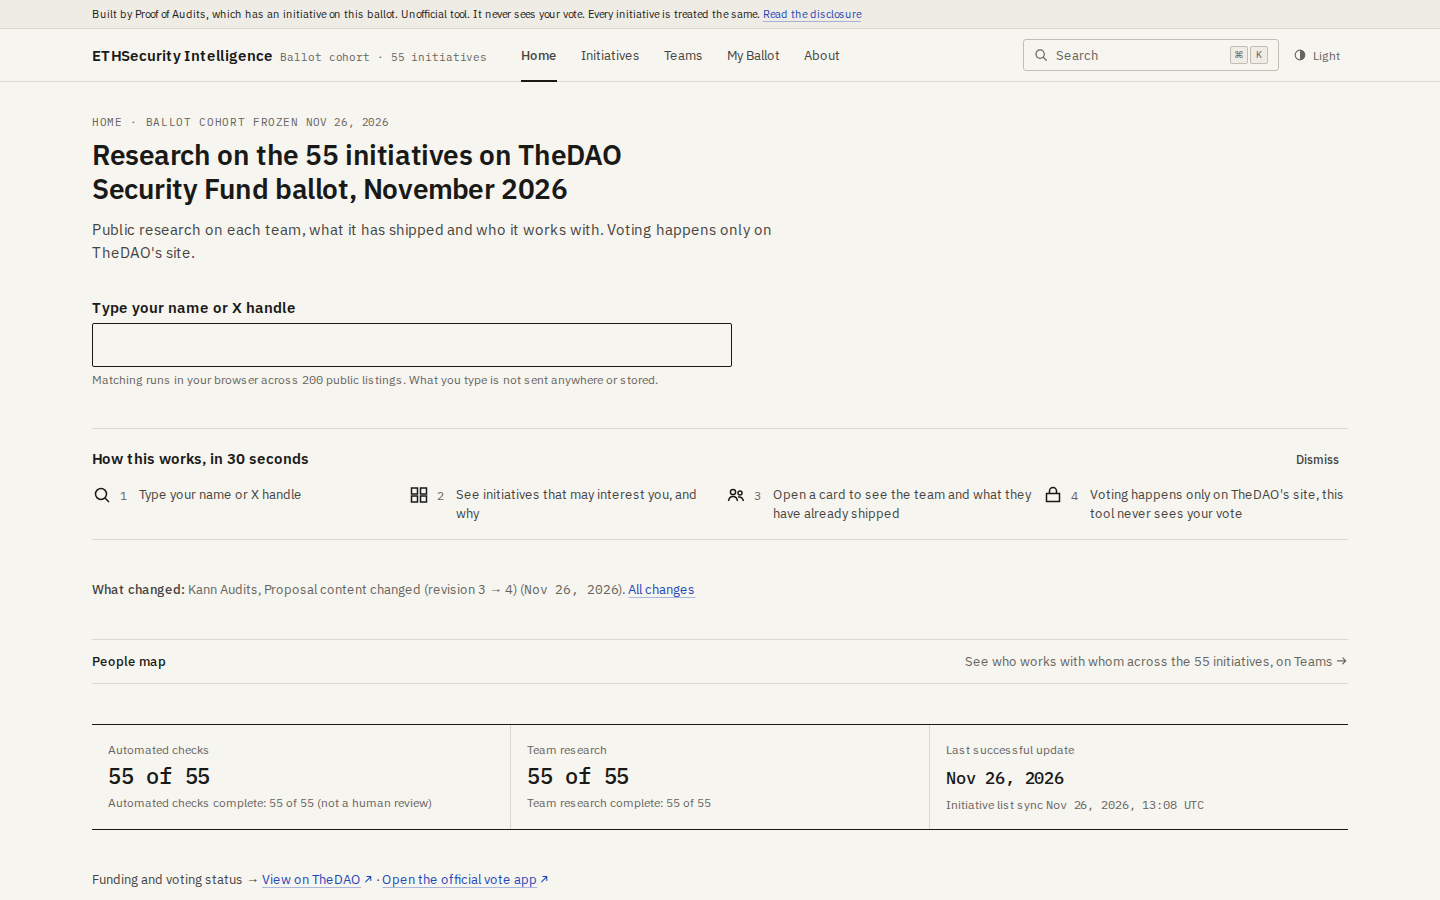
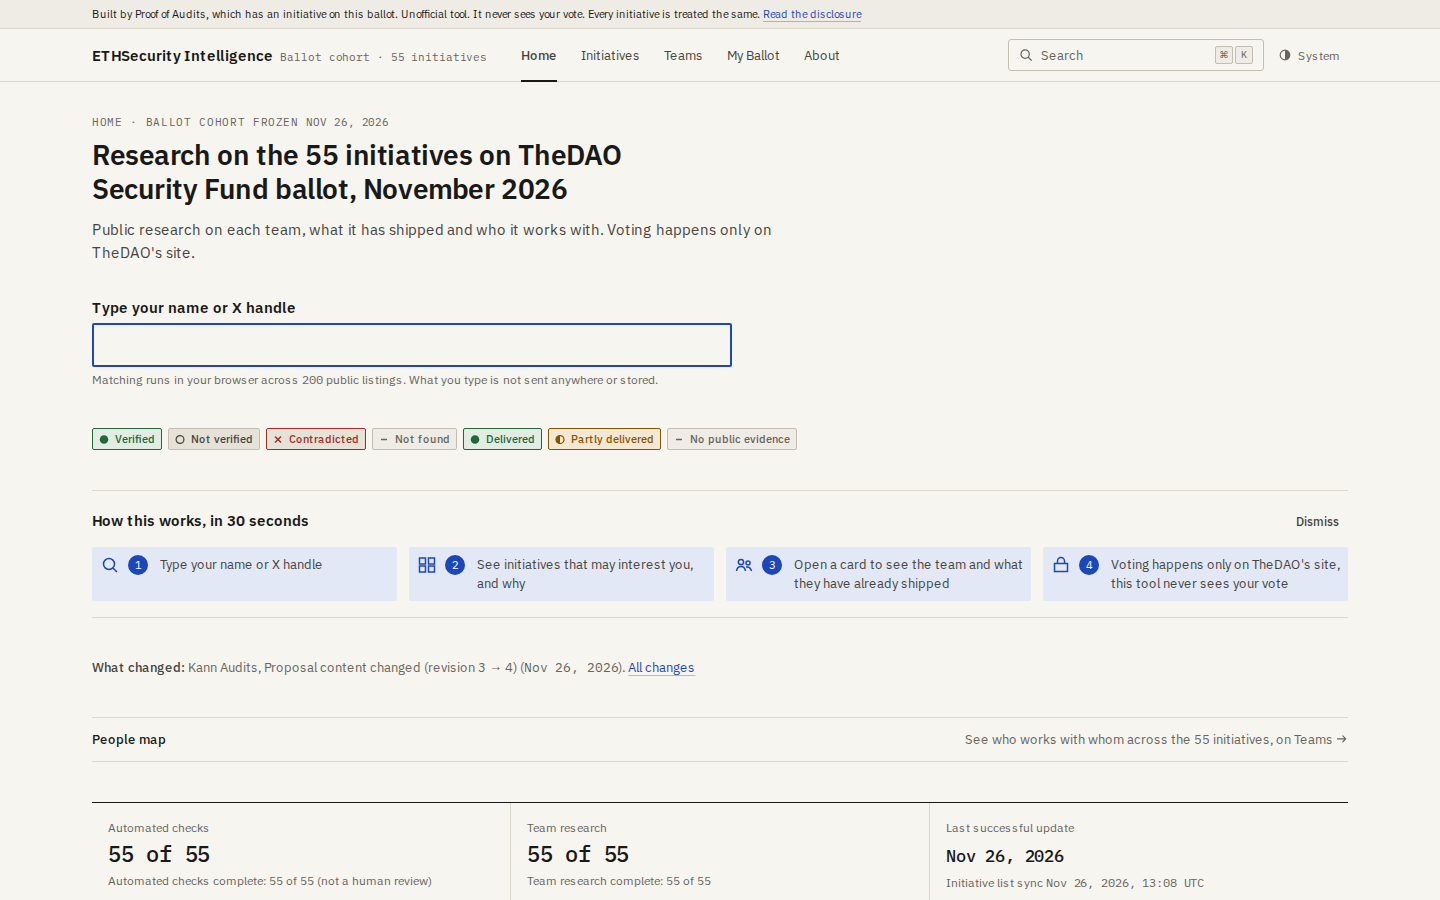
Show the current Proof of Audits function counts and make status colours readable
The explorer claim now uses the page's own census: 25,695 callable functions, 14,577 in a cited audit scope, 11,118 not matched, and 0 not checked. A found badge holder with no initiative link is no longer described as an unknown name.

diff --git a/components/home/name-search.tsx b/components/home/name-search.tsx
@@ -46,7 +46,7 @@ export function NameSearch({ holders, index, total }: { holders: BadgeHolder[] |
           maxLength={80}
           aria-describedby={`${id}-help`}
           data-name-search-input
-          className="h-11 w-full min-w-0 rounded-xs border border-ink bg-paper px-3 text-md text-ink focus:outline-none disabled:cursor-not-allowed disabled:border-rule-2 disabled:text-ink-3"
+          className="h-11 w-full min-w-0 rounded-xs border-2 border-accent bg-paper px-3 text-md text-ink focus:outline-none disabled:cursor-not-allowed disabled:border-rule-2 disabled:text-ink-3"
         />
         <p id={`${id}-help`} className="mt-1 text-xs text-ink-3">
           {holders ? (
@@ -95,15 +95,17 @@ export function NameSearch({ holders, index, total }: { holders: BadgeHolder[] |
 
         {holders && typed && chosen && (
           <div data-name-search-state="results" className="space-y-6">
-            <p className="text-sm text-ink-2">
-              Showing public connections for <span className="font-medium text-ink">{chosen.name}</span>
-              {chosen.organisation && <>, {chosen.organisation}</>}
-              {chosen.xHandle && <> (@{chosen.xHandle})</>}. Every card names the public source for its reason.
-            </p>
-            {groups.length === 0 && <NoMatch total={total} />}
+            {groups.length > 0 && (
+              <p className="rounded-xs border border-accent bg-accent-wash px-3 py-2 text-sm text-ink">
+                Showing public connections for <span className="font-medium">{chosen.name}</span>
+                {chosen.organisation && <>, {chosen.organisation}</>}
+                {chosen.xHandle && <> (@{chosen.xHandle})</>}. Every card names the public source for its reason.
+              </p>
+            )}
+            {groups.length === 0 && <FoundWithoutLink name={chosen.name} total={total} />}
             {groups.map((g) => (
-              <section key={g.key} aria-labelledby={`${id}-g-${g.key}`} data-result-group={g.key}>
-                <h3 id={`${id}-g-${g.key}`} className="mb-2 text-sm font-semibold">
+              <section key={g.key} aria-labelledby={`${id}-g-${g.key}`} data-result-group={g.key} className="rounded-xs border border-rule border-l-4 border-l-accent bg-paper px-3 py-2">
+                <h3 id={`${id}-g-${g.key}`} className="mb-2 text-sm font-semibold text-accent">
                   {g.label} <span className="num font-normal text-ink-3">{g.cards.length}</span>
                 </h3>
                 <ul className="grid grid-cols-1 gap-3 md:grid-cols-2 xl:grid-cols-3 [&>*]:min-w-0">
@@ -122,9 +124,28 @@ export function NameSearch({ holders, index, total }: { holders: BadgeHolder[] |
   );
 }
 
+function FoundWithoutLink({ name, total }: { name: string; total: number }) {
+  return (
+    <div role="status" data-name-search-state="no-link" className="max-w-[680px] rounded-xs border border-accent bg-accent-wash px-3 py-2 text-sm text-ink">
+      <p>
+        <span className="font-medium">{name}</span> is on the public badge list. None of the {total} initiatives name them in a public team, repository or organisation record.
+      </p>
+      <p className="mt-1">
+        <Link href="/initiatives" className="link">
+          Browse all {total} initiatives
+        </Link>
+        {" · "}
+        <Link href="/workspace#affiliations" className="link">
+          My Affiliations
+        </Link>
+      </p>
+    </div>
+  );
+}
+
 function NoMatch({ total }: { total: number }) {
   return (
-    <div role="status" data-name-search-state="no-match" className="max-w-[640px] border-l-2 border-rule-2 pl-3 text-sm text-ink-2">
+    <div role="status" data-name-search-state="no-match" className="max-w-[640px] rounded-xs border border-st-partial bg-st-partial-wash px-3 py-2 text-sm text-ink">
       <p>{NO_MATCH_TEXT}</p>
       <p className="mt-1">
         <Link href="/initiatives" className="link">

diff --git a/components/ui/badges.tsx b/components/ui/badges.tsx
@@ -6,15 +6,15 @@ type Glyph = Parameters<typeof Mark>[0]["glyph"];
 
 /** Same palette as the evidence marks: green verified, amber partial, gray unverified, red contradicted. Text and a shape always accompany the color. */
 const EVIDENCE_UI: Record<EvidenceBadgeKind, { glyph: Glyph; tone: string }> = {
-  verified: { glyph: "full", tone: "text-st-verified border-st-verified" },
-  not_verified: { glyph: "ring", tone: "text-st-applicant border-rule-2" },
-  contradicted: { glyph: "cross", tone: "text-st-contradicted border-st-contradicted" },
-  not_found: { glyph: "dash", tone: "text-ink-3 border-rule-2" },
+  verified: { glyph: "full", tone: "bg-st-verified-wash text-st-verified border-st-verified" },
+  not_verified: { glyph: "ring", tone: "bg-paper-3 text-ink-2 border-rule-2" },
+  contradicted: { glyph: "cross", tone: "bg-paper-3 text-st-contradicted border-st-contradicted" },
+  not_found: { glyph: "dash", tone: "bg-paper-2 text-ink-3 border-rule-2" },
 };
 const DELIVERY_UI: Record<DeliveryBadgeKind, { glyph: Glyph; tone: string }> = {
-  delivered: { glyph: "full", tone: "text-st-verified border-st-verified" },
-  partial: { glyph: "half", tone: "text-st-partial border-st-partial" },
-  none: { glyph: "dash", tone: "text-ink-3 border-rule-2" },
+  delivered: { glyph: "full", tone: "bg-st-verified-wash text-st-verified border-st-verified" },
+  partial: { glyph: "half", tone: "bg-st-partial-wash text-st-partial border-st-partial" },
+  none: { glyph: "dash", tone: "bg-paper-2 text-ink-3 border-rule-2" },
 };
 
 function Pill({ glyph, tone, children, kind, className }: { glyph: Glyph; tone: string; children: React.ReactNode; kind: string; className?: string }) {
@@ -47,6 +47,35 @@ export function DeliveryBadge({ kind, count, className }: { kind: DeliveryBadgeK
 }
 
 export const NOT_YET_RESEARCHED = "Not yet researched";
+
+/** One-line key so the badge colours have words next to them. */
+export function BadgeKey() {
+  return (
+    <ul className="flex flex-wrap items-center gap-1.5" aria-label="Badge colours">
+      <li>
+        <EvidenceBadge kind="verified" />
+      </li>
+      <li>
+        <EvidenceBadge kind="not_verified" />
+      </li>
+      <li>
+        <EvidenceBadge kind="contradicted" />
+      </li>
+      <li>
+        <EvidenceBadge kind="not_found" />
+      </li>
+      <li>
+        <DeliveryBadge kind="delivered" />
+      </li>
+      <li>
+        <DeliveryBadge kind="partial" />
+      </li>
+      <li>
+        <DeliveryBadge kind="none" />
+      </li>
+    </ul>
+  );
+}
 
 /** Evidence row for a card: claim-check badges, then delivery badges. "Not yet researched" when no team research exists. */
 export function BadgeRow({ evidence, delivery, className }: { evidence: BadgeCount<EvidenceBadgeKind>[] | null; delivery: BadgeCount<DeliveryBadgeKind>[] | null; className?: string }) {

diff --git a/components/ui/coverage-bar.tsx b/components/ui/coverage-bar.tsx
@@ -1,0 +1,49 @@
+import type { CoveragePart } from "@/lib/team/types";
+import { cn } from "@/lib/util/cn";
+
+const TONE: Record<CoveragePart["tone"], string> = {
+  in_scope: "bg-st-verified",
+  unmatched: "bg-st-partial",
+  unchecked: "bg-ink-3",
+};
+
+const SWATCH: Record<CoveragePart["tone"], string> = {
+  in_scope: "bg-st-verified",
+  unmatched: "bg-st-partial",
+  unchecked: "bg-ink-3",
+};
+
+function pct(count: number, total: number) {
+  if (total <= 0) return "0%";
+  return `${((count / total) * 100).toFixed(1)}%`;
+}
+
+/** Labelled count split from a source page. The bar repeats the words; colour is not the only cue. */
+export function CoverageBar({ totalLabel, parts }: { totalLabel?: string; parts: CoveragePart[] }) {
+  const total = parts.reduce((s, p) => s + p.count, 0);
+  const alt = parts.map((p) => `${p.count.toLocaleString("en-US")} ${p.label} (${pct(p.count, total)})`).join(", ");
+  return (
+    <figure className="mt-2 max-w-[520px]" data-coverage-bar>
+      {totalLabel && <figcaption className="num text-sm font-semibold text-ink">{totalLabel}</figcaption>}
+      <div className="mt-1.5 flex h-3 overflow-hidden rounded-xs bg-paper-3" role="img" aria-label={alt}>
+        {parts.map((p) => (
+          <span key={p.label} className={cn("block h-full", TONE[p.tone])} style={{ width: total ? `${(p.count / total) * 100}%` : "0%" }} />
+        ))}
+      </div>
+      <ul className="mt-2 space-y-1 text-xs text-ink-2">
+        {parts.map((p) => (
+          <li key={p.label} className="flex items-baseline justify-between gap-3">
+            <span className="flex items-center gap-1.5">
+              <span aria-hidden="true" className={cn("inline-block size-2.5 rounded-[1px]", SWATCH[p.tone])} />
+              {p.label}
+            </span>
+            <span className="num text-ink">
+              {p.count.toLocaleString("en-US")} <span className="text-ink-3">{pct(p.count, total)}</span>
+            </span>
+          </li>
+        ))}
+      </ul>
+      <p className="mt-1 text-2xs text-ink-3">Counts stated on the source page. This bar is not a score.</p>
+    </figure>
+  );
+}

diff --git a/components/dossier/team-research.tsx b/components/dossier/team-research.tsx
@@ -1,4 +1,5 @@
 import { DeliveryBadge, EvidenceBadge, NOT_YET_RESEARCHED } from "@/components/ui/badges";
+import { CoverageBar } from "@/components/ui/coverage-bar";
 import { ExternalLink } from "@/components/ui/button";
 import { ChartFrame } from "@/components/ui/chart-frame";
 import { Sparkline, sparklineAlt } from "@/components/ui/charts";
@@ -144,6 +145,7 @@ export function TeamResearchSection({ research }: { research: TeamResearchResult
                   <li key={`${c.claim}-${n}`} className="grid gap-x-4 gap-y-1 py-2.5 text-sm sm:grid-cols-[minmax(0,1fr)_auto]">
                     <div className="min-w-0">
                       <p>{c.claim}</p>
+                      {c.breakdown && c.breakdown.length > 0 && <CoverageBar totalLabel={c.totalLabel} parts={c.breakdown} />}
                       <div className="mt-1">
                         <Sources sources={c.sources} />
                       </div>

diff --git a/components/home/onboarding.tsx b/components/home/onboarding.tsx
@@ -86,10 +86,10 @@ export function Onboarding() {
       </div>
       <ol className="grid grid-cols-1 gap-3 sm:grid-cols-2 lg:grid-cols-4">
         {ONBOARDING_STEPS.map((s, n) => (
-          <li key={s.icon} className="flex items-start gap-3 text-sm text-ink-2">
-            <span className="flex items-center gap-2 text-ink">
+          <li key={s.icon} className="flex items-start gap-3 rounded-xs bg-accent-wash px-2 py-2 text-sm text-ink-2">
+            <span className="flex items-center gap-2 text-accent">
               <Icon name={s.icon} />
-              <span className="num text-xs text-ink-3">{n + 1}</span>
+              <span className="num flex size-5 items-center justify-center rounded-full bg-accent text-[11px] text-accent-ink">{n + 1}</span>
             </span>
             <span>{s.text}</span>
           </li>

diff --git a/research/team-build.ts b/research/team-build.ts
@@ -130,7 +130,14 @@ export function buildTeamResearch(input: BuildInput): PublishedTeamFile {
         checkedOn: d.checkedOn,
         ...(d.round1RecordId ? { round1RecordId: d.round1RecordId } : {}),
       })),
-      claimChecks: rec.claims.map((c) => ({ claim: c.claim, status: c.status, sources: c.sources, checkedOn: c.checkedOn, method: c.method })),
+      claimChecks: rec.claims.map((c) => ({
+        claim: c.claim,
+        status: c.status,
+        sources: c.sources,
+        checkedOn: c.checkedOn,
+        method: c.method,
+        ...(c.breakdown ? { breakdown: c.breakdown, totalLabel: c.totalLabel } : {}),
+      })),
       questions: input.questionsFor?.(ini.id) ?? [],
       ...(input.structuredQuestionsFor ? { structuredQuestions: input.structuredQuestionsFor(ini.id) } : {}),
       passes: rec.passes,

diff --git a/lib/team/types.ts b/lib/team/types.ts
@@ -41,11 +41,23 @@ export type DeliveryTimelineEntry = {
 
 export type ClaimStatus = "Verified" | "Not verified" | "Contradicted by source";
 
+export type CoverageTone = "in_scope" | "unmatched" | "unchecked";
+
+/** A sourced count split, such as functions in or out of a cited audit scope. Not a score. */
+export type CoveragePart = {
+  label: string;
+  count: number;
+  tone: CoverageTone;
+};
+
 export type ClaimCheck = {
   claim: string;
   status: ClaimStatus;
   sources: SourceLink[];
   checkedOn: string;
+  /** Optional counted split stated by the source. Rendered as a labelled bar. */
+  breakdown?: CoveragePart[];
+  totalLabel?: string;
 };
 
 export type TeamResearch = {

diff --git a/app/page.tsx b/app/page.tsx
@@ -1,6 +1,7 @@
 import Link from "next/link";
 import { ArrowRight } from "@/components/ui/icons";
 import { NameSearch } from "@/components/home/name-search";
+import { BadgeKey } from "@/components/ui/badges";
 import { Onboarding } from "@/components/home/onboarding";
 import { WhyAiList } from "@/components/about/why-ai";
 import { PageHead, Stat } from "@/components/ui/layout";
@@ -47,6 +48,7 @@ export default async function OverviewPage() {
       />
 
       <NameSearch holders={holders} index={index} total={d.initiatives.length} />
+      <BadgeKey />
 
       <Onboarding />
 

diff --git a/lib/research-v2/schemas.ts b/lib/research-v2/schemas.ts
@@ -108,7 +108,20 @@ const claim = z
     status: z.enum(CLAIM_STATUSES),
     sources,
     checkedOn,
-    method: text(400),
+    method: text(500),
+    totalLabel: text(80).optional(),
+    breakdown: z
+      .array(
+        z
+          .object({
+            label: text(80),
+            count: z.number().int().nonnegative(),
+            tone: z.enum(["in_scope", "unmatched", "unchecked"]),
+          })
+          .strict(),
+      )
+      .max(6)
+      .optional(),
   })
   .strict();
 
